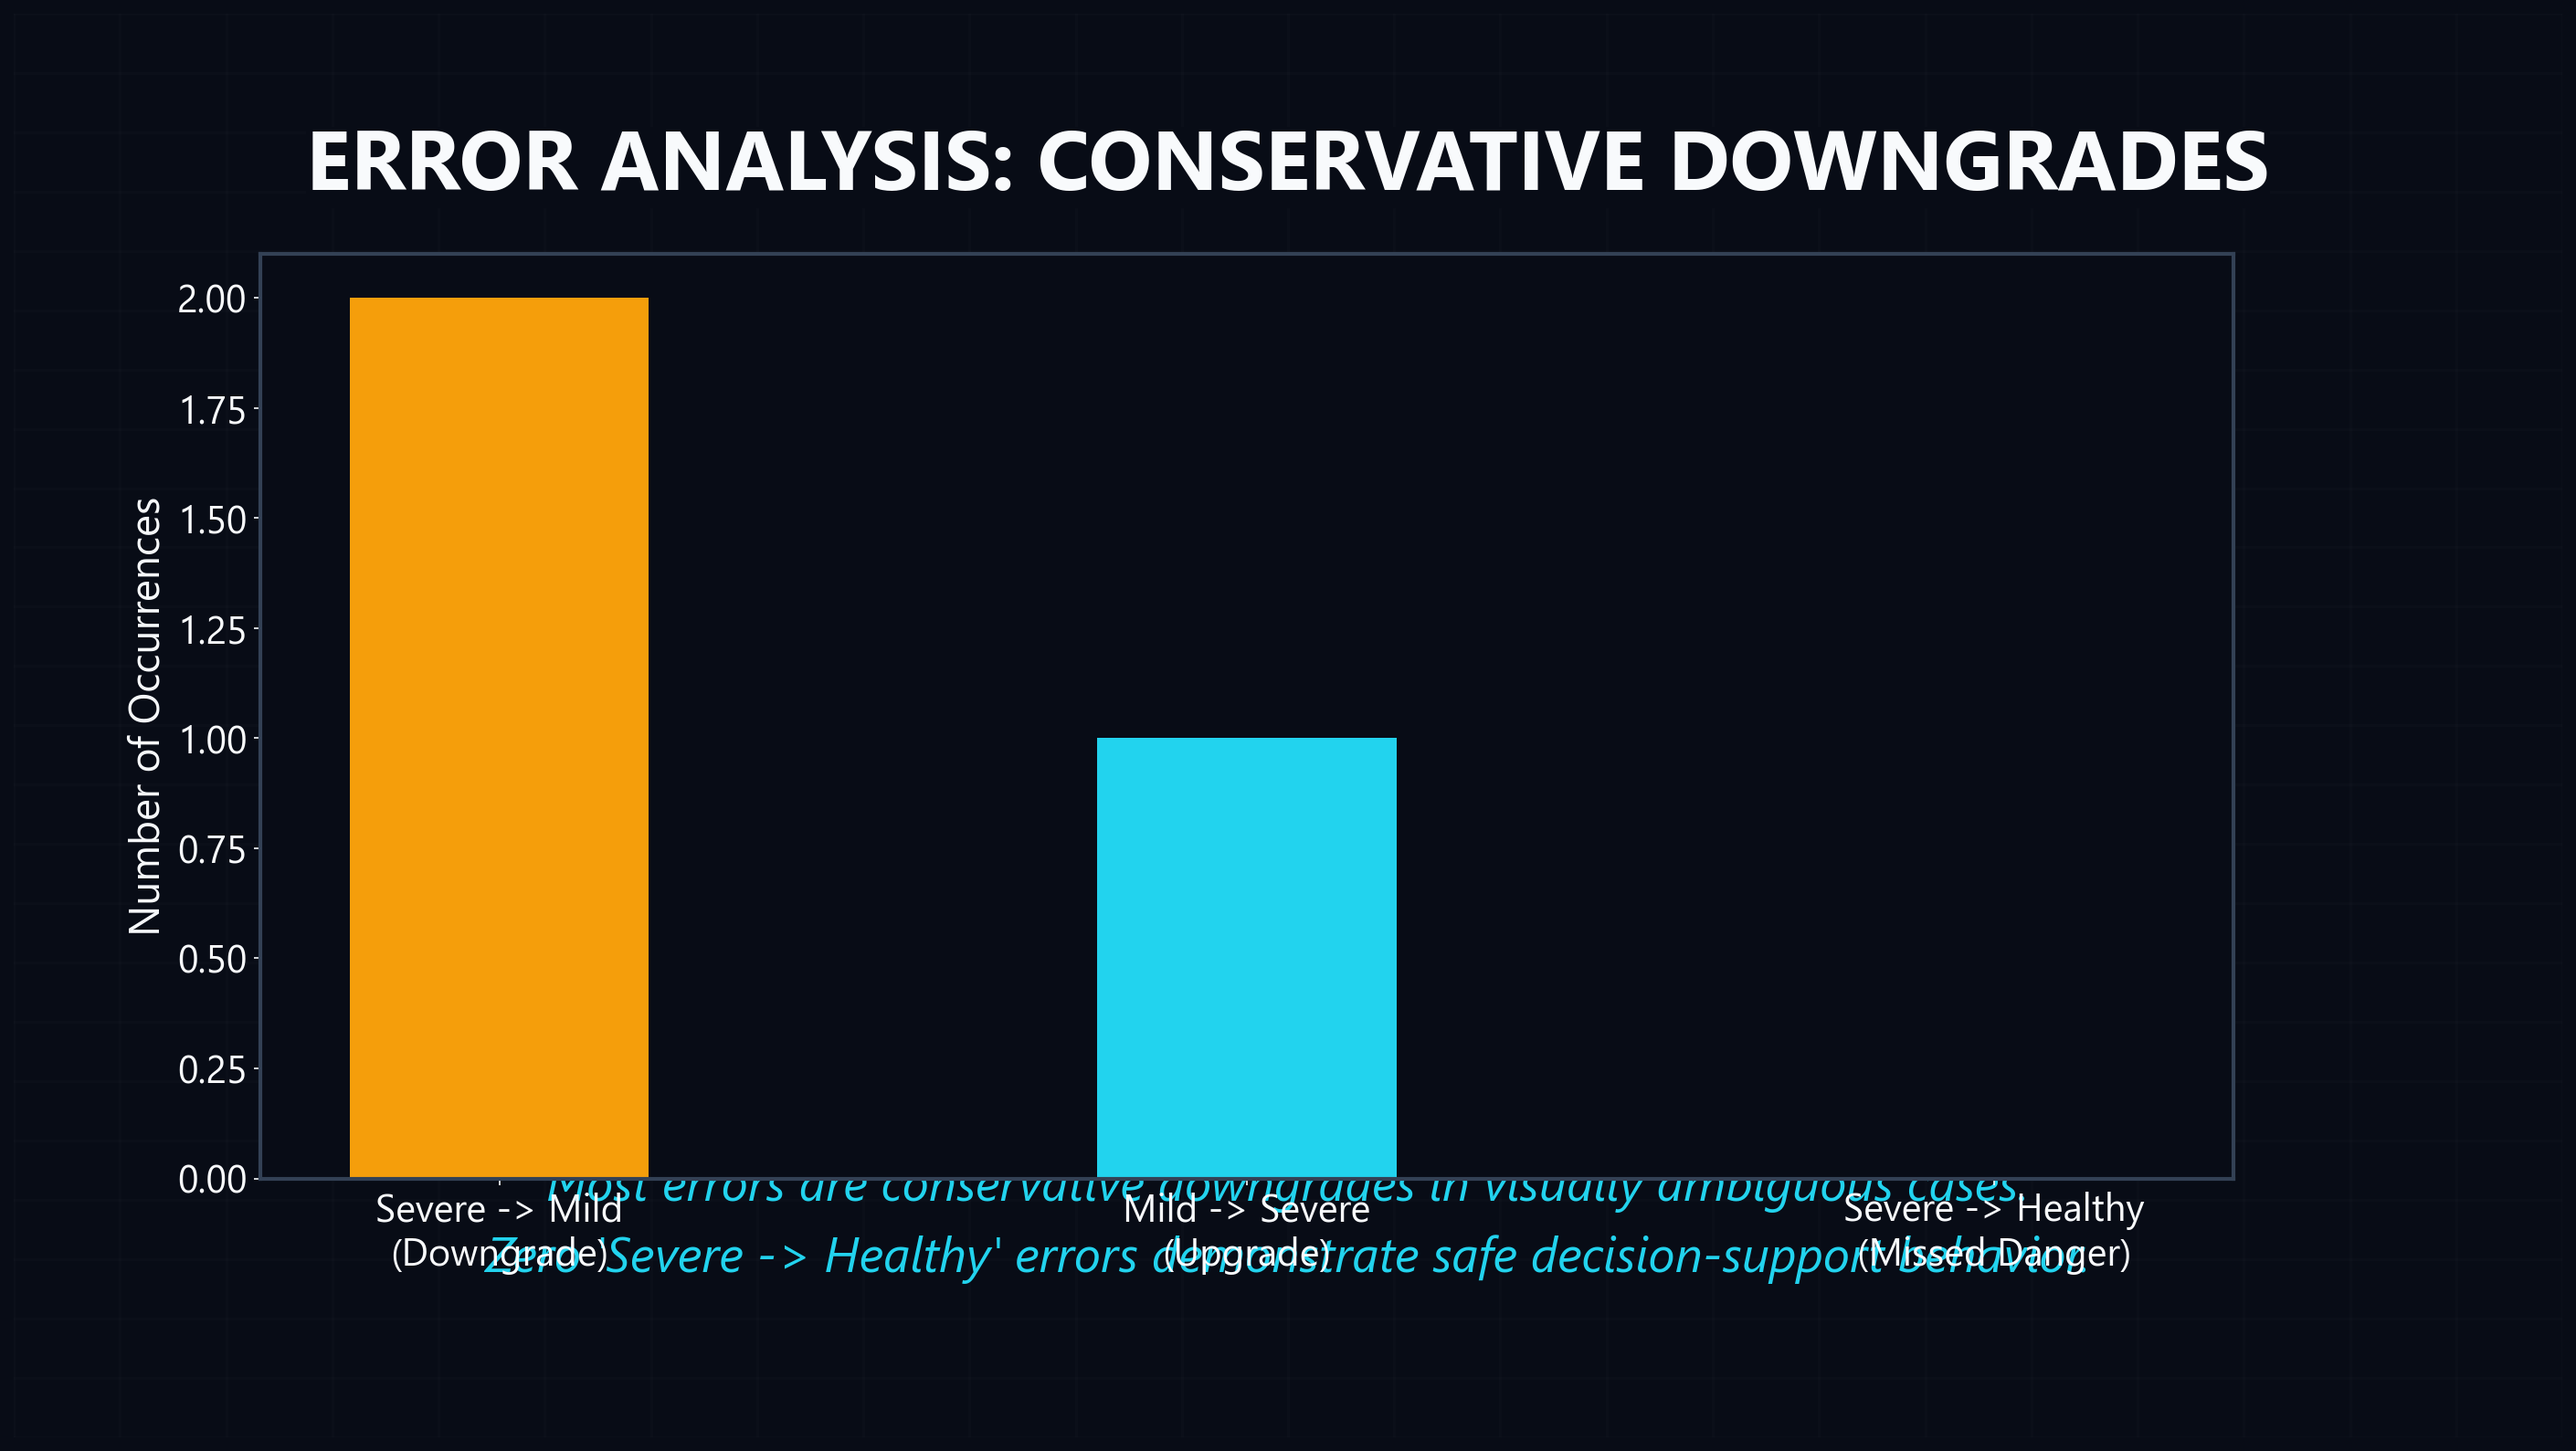
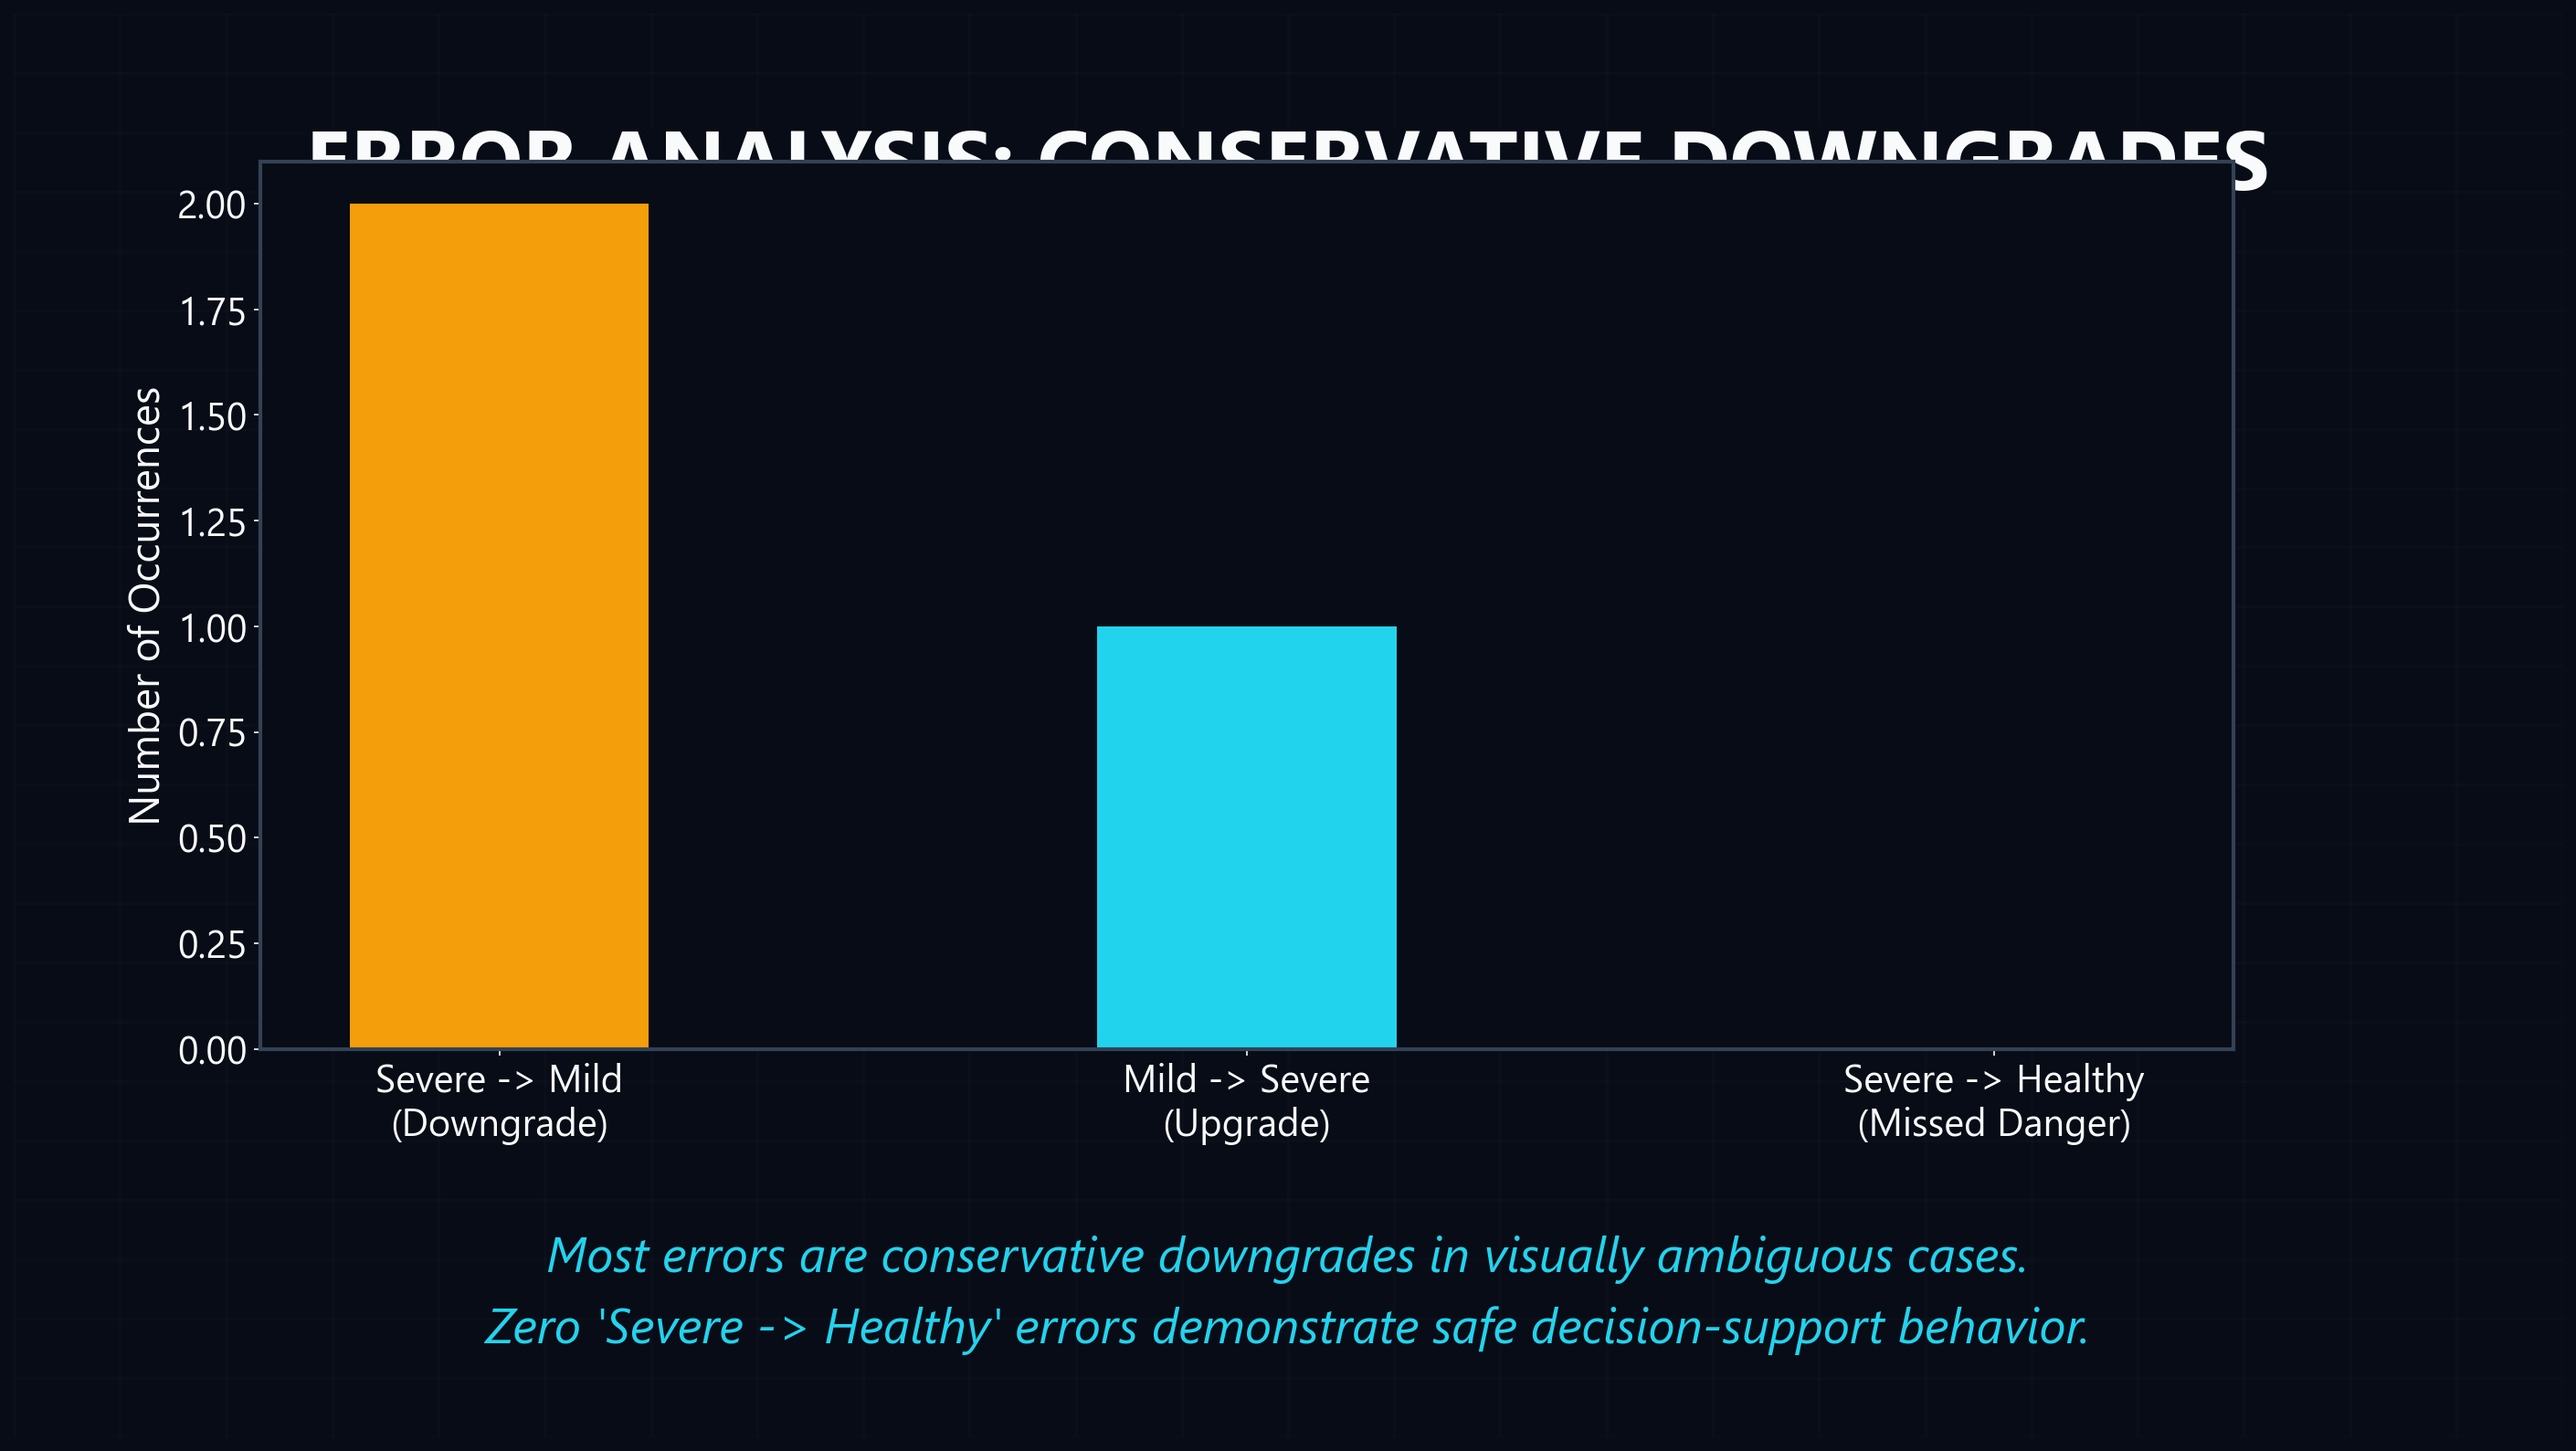
style: Fix overlapping text at the bottom of fig_09 error analysis

diff --git a/scripts/generate_academic_figures.py b/scripts/generate_academic_figures.py
@@ -292,7 +292,7 @@ def fig_09_error_analysis():
     values = [2, 1, 0]
     colors = [WARNING_ORANGE, CYAN_GLOW, EMERALD]
     
-    ax_bar = fig.add_axes([0.2, 0.25, 0.6, 0.50])
+    ax_bar = fig.add_axes([0.2, 0.32, 0.6, 0.48])
     ax_bar.set_facecolor(BG_COLOR)
     bars = ax_bar.bar(labels, values, color=colors, width=0.4)
     ax_bar.set_ylabel("Number of Occurrences", color=TEXT_MAIN, fontsize=22)
@@ -301,7 +301,7 @@ def fig_09_error_analysis():
         spine.set_color("#334155")
         spine.set_linewidth(2)
         
-    ax.text(0.5, 0.15, "Most errors are conservative downgrades in visually ambiguous cases.\nZero 'Severe -> Healthy' errors demonstrate safe decision-support behavior.", 
+    ax.text(0.5, 0.10, "Most errors are conservative downgrades in visually ambiguous cases.\nZero 'Severe -> Healthy' errors demonstrate safe decision-support behavior.", 
             ha='center', va='center', color=CYAN_GLOW, fontsize=26, style='italic', linespacing=1.6)
 
     plt.savefig(os.path.join(OUTPUT_DIR, "fig_09_error_analysis.png"), bbox_inches='tight')
